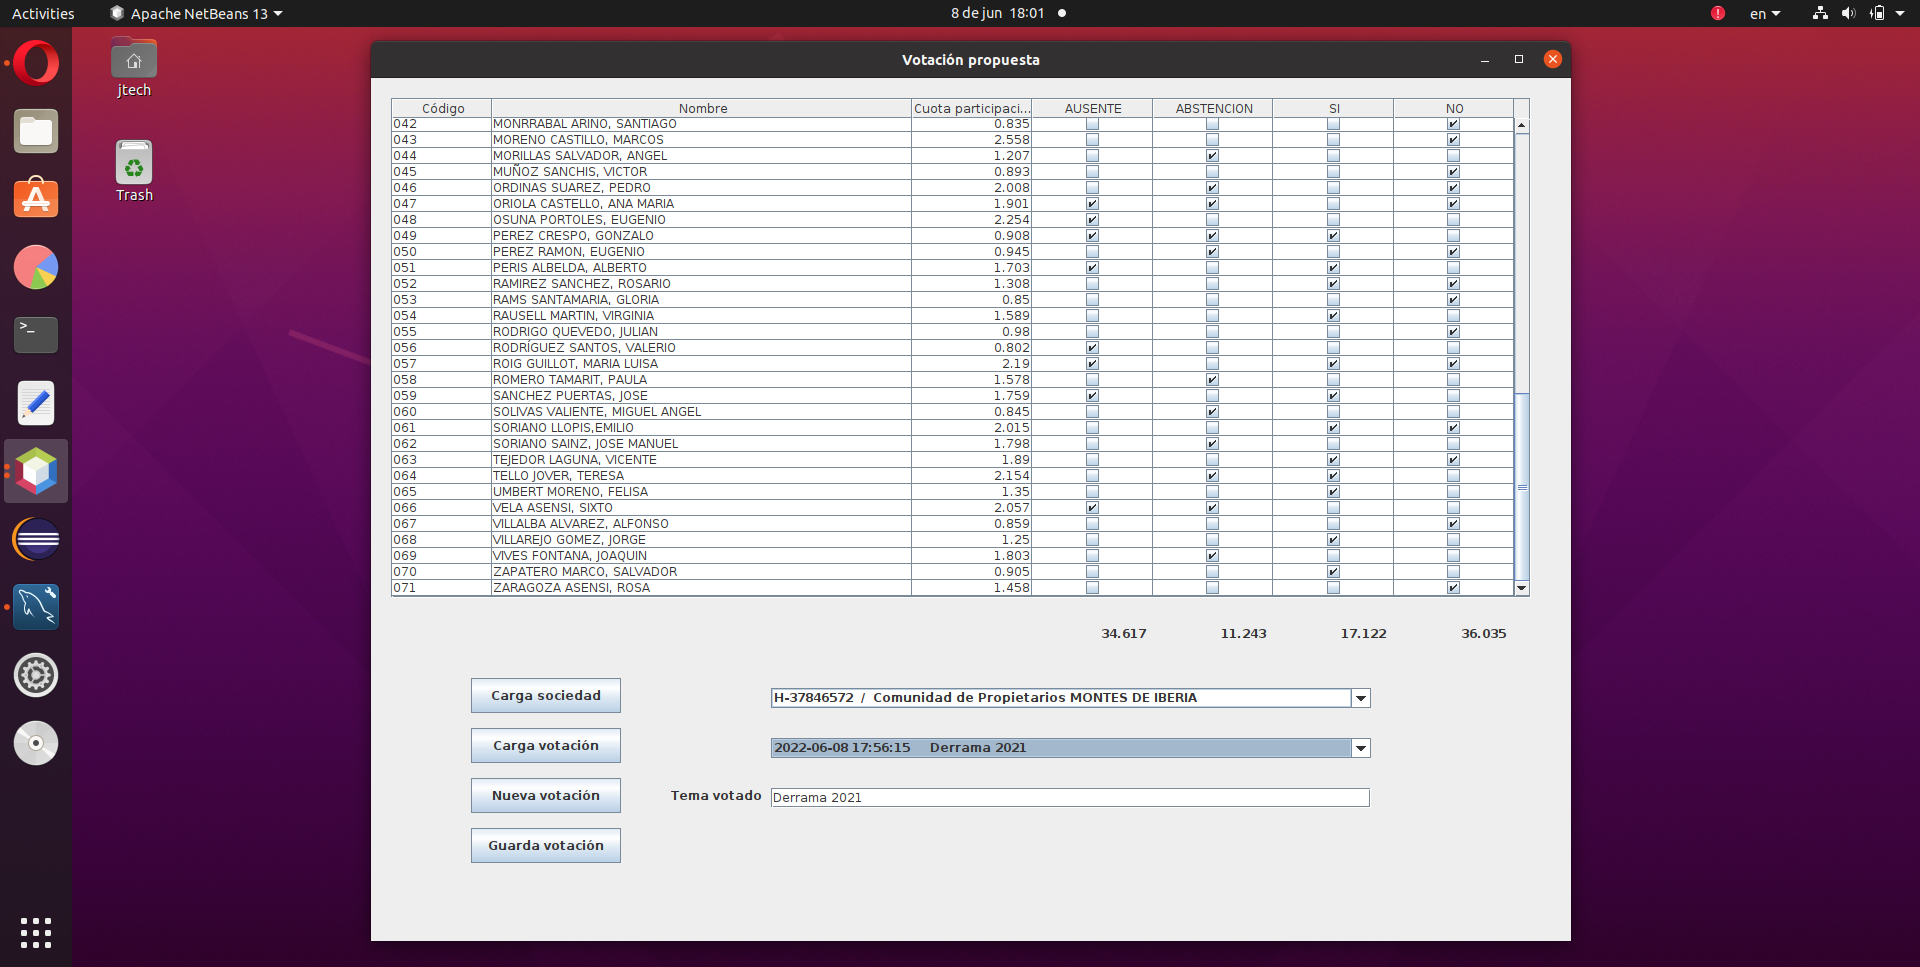
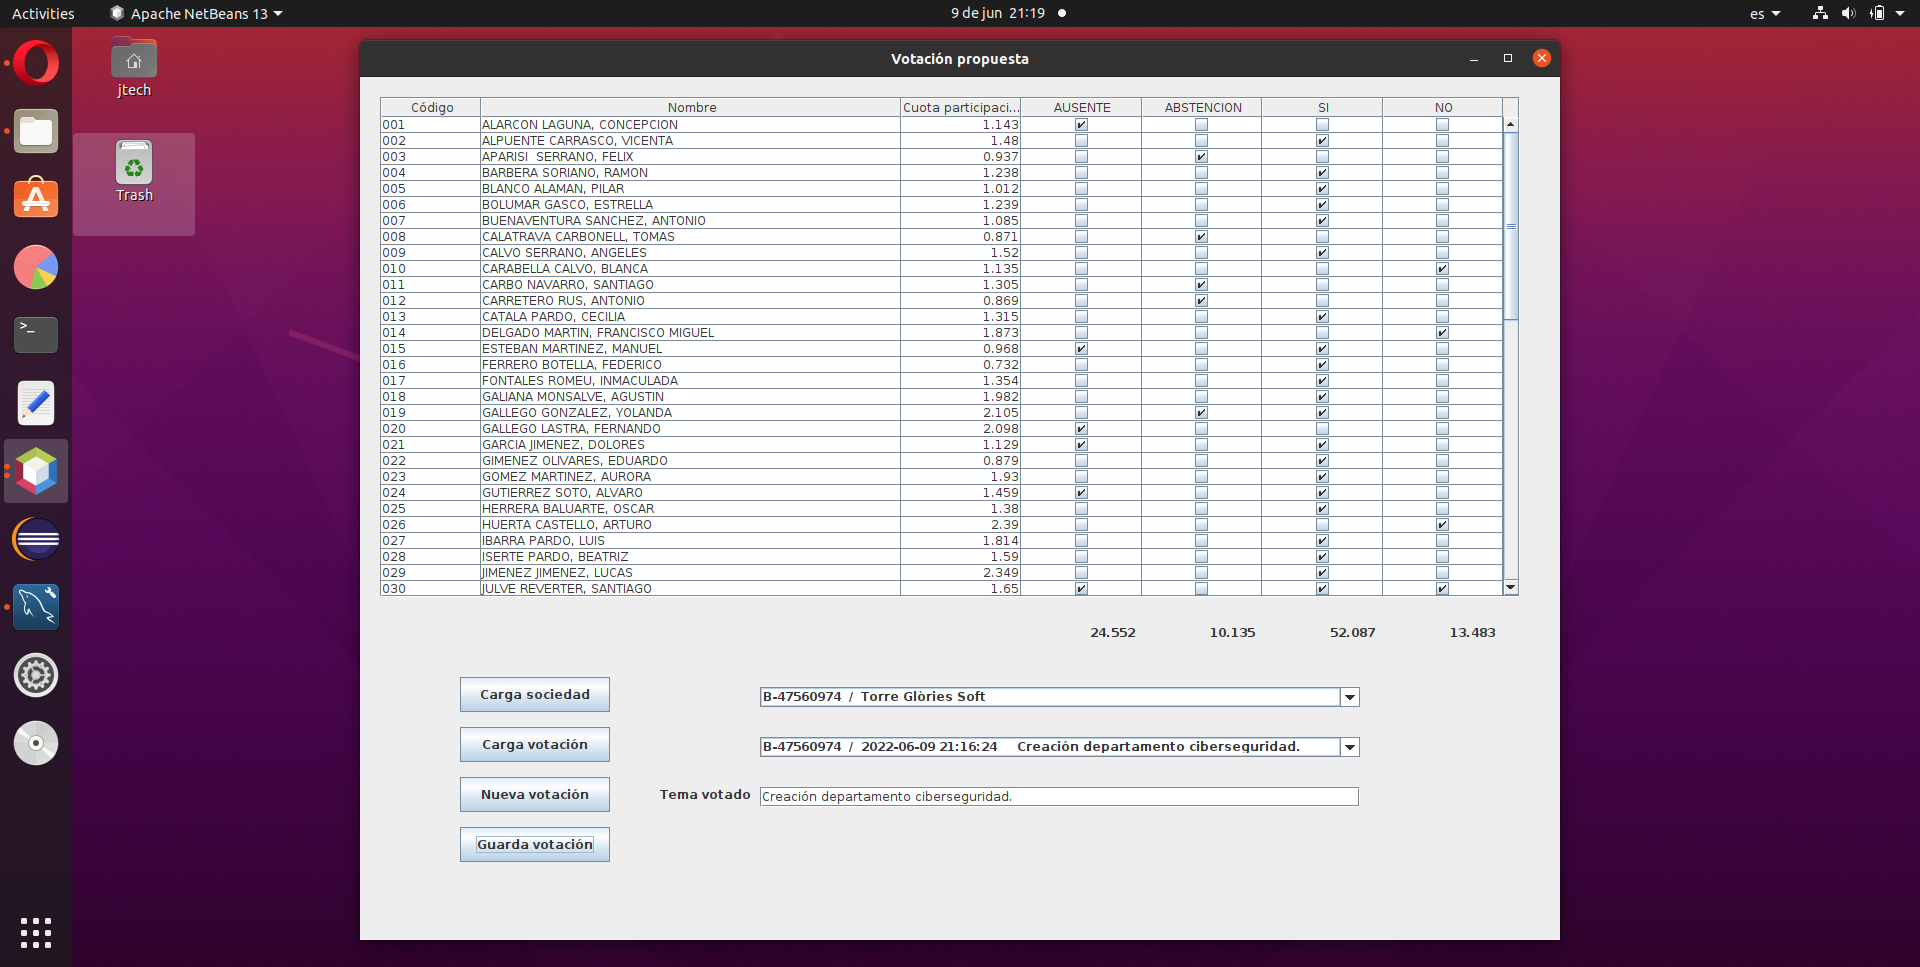
patch version

diff --git a/src/presentacion/GestorEventos.java b/src/presentacion/GestorEventos.java
@@ -21,6 +21,7 @@ import negocio.VotacionesNegocio;
 public class GestorEventos extends WindowAdapter implements ActionListener, TableModelListener {
 
     private final Componentes componentes;
+    private Sociedad sociedadCargada;
     
     public GestorEventos(Componentes componentes) {
         this.componentes = componentes;
@@ -49,6 +50,7 @@ public class GestorEventos extends WindowAdapter implements ActionListener, Tabl
                 Sociedad sociedad = new Sociedad();
                 sociedad.setCif(componentes.getSeleccionIdSociedad().getSelectedItem().toString().substring(0, 10));
                 System.out.println(sociedad.getCif());
+                sociedadCargada = sociedad;
              }
          }  
         else
@@ -57,7 +59,7 @@ public class GestorEventos extends WindowAdapter implements ActionListener, Tabl
             if (componentes.getSeleccionIdVotacion().getSelectedItem() != null)
              {
                 Votacion votacion = new Votacion();
-                votacion.setIdVotacion(componentes.getSeleccionIdVotacion().getSelectedItem().toString().substring(0, 19));    
+                votacion.setIdVotacion(componentes.getSeleccionIdVotacion().getSelectedItem().toString().substring(15, 34));    
                 
                 try {
                     componentes.getModeloDatos().cargarVotacion(new VotacionesNegocio().consultarResultadoVotacion((BaseDatos)componentes.getRepositorio()[0], votacion));
@@ -66,7 +68,7 @@ public class GestorEventos extends WindowAdapter implements ActionListener, Tabl
                 
                 for (int k=0; k<=3; k++)
                    componentes.getVisualizaNumVotos(k).setText(decimalFormat.format(componentes.getContadorVotos(k)));                 
-                componentes.getjTextFieldTemaVotado().setText(componentes.getSeleccionIdVotacion().getSelectedItem().toString().substring(24)); 
+                componentes.getjTextFieldTemaVotado().setText(componentes.getSeleccionIdVotacion().getSelectedItem().toString().substring(39)); 
              }
          }  
         else
@@ -84,7 +86,7 @@ public class GestorEventos extends WindowAdapter implements ActionListener, Tabl
             Votacion votacion = new Votacion();
             votacion.setIdVotacion(new SimpleDateFormat("yyyy-MM-dd HH:mm:ss").format(new java.util.Date()));
             votacion.setTemaVotado(componentes.getjTextFieldTemaVotado().getText());
-            votacion.setCifSociedad("H-37846572");
+            votacion.setCifSociedad(sociedadCargada.getCif());
             
             try {
                 new VotacionesNegocio().guardarVotacion((BaseDatos)componentes.getRepositorio()[0], (SistemaArchivos)componentes.getRepositorio()[1], votacion, componentes.getModeloDatos().getDatos(), componentes.getContadorVotos());

diff --git a/src/datos/VotacionesDatos.java b/src/datos/VotacionesDatos.java
@@ -37,13 +37,14 @@ public class VotacionesDatos {
         ResultSet resultSet = null;
         Statement statement = null;
         try {
-                String sql = "SELECT * FROM votaciones ORDER BY tema_votado, id_votacion";
+                String sql = "SELECT * FROM votaciones ORDER BY cif_sociedad, tema_votado, id_votacion";
                 statement = connection.createStatement();
                 resultSet = statement.executeQuery(sql); 
                 while (resultSet.next()) { 
                    Votacion votacion = new Votacion();             
                    votacion.setIdVotacion(resultSet.getString(1));
                    votacion.setTemaVotado(resultSet.getString(2));
+                   votacion.setCifSociedad(resultSet.getString(3));
                    listaVotaciones.add(votacion);
                 } 
             } catch (SQLException excepcion) {

diff --git a/src/presentacion/PantallaJTable.java b/src/presentacion/PantallaJTable.java
@@ -174,7 +174,7 @@ public class PantallaJTable extends JFrame {
         for (int i=0; i<listaVotaciones.size(); i++)
         {
             Votacion votacion = listaVotaciones.get(i);
-            componentes.getSeleccionIdVotacion().addItem(votacion.getIdVotacion()+"     "+votacion.getTemaVotado());
+            componentes.getSeleccionIdVotacion().addItem(votacion.getCifSociedad()+"  /  "+votacion.getIdVotacion()+"     "+votacion.getTemaVotado());
         }
     }
 
